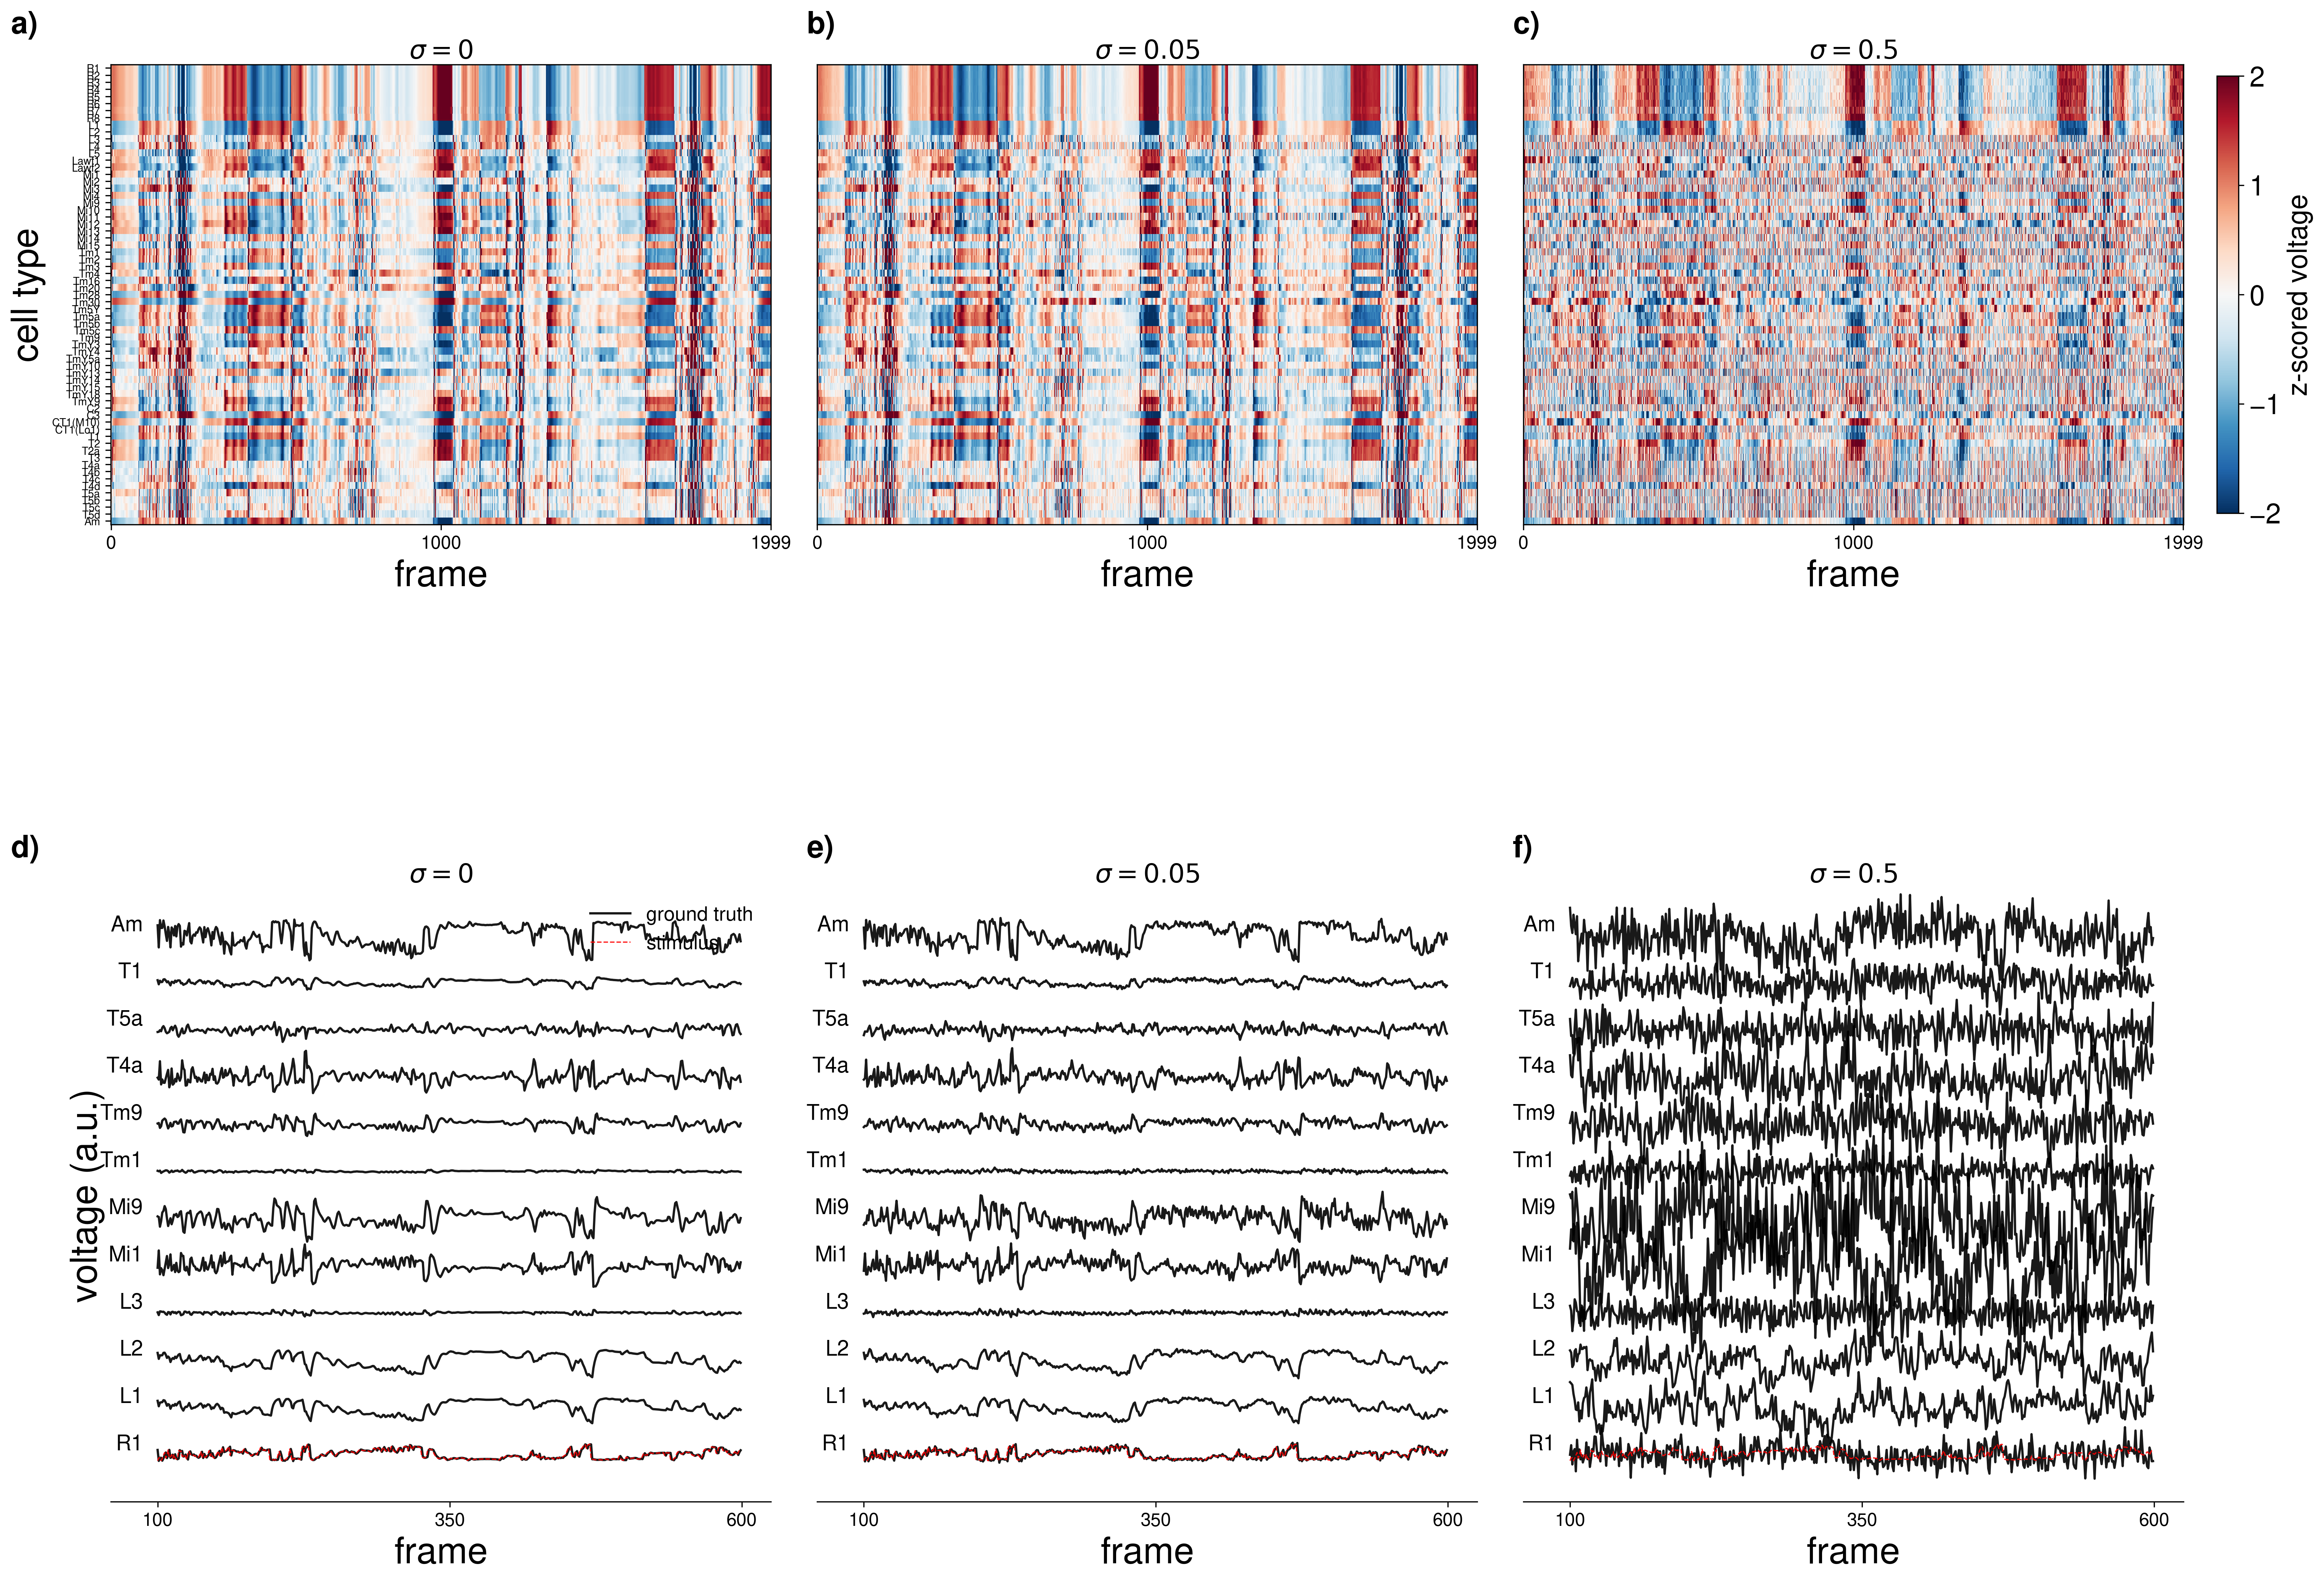
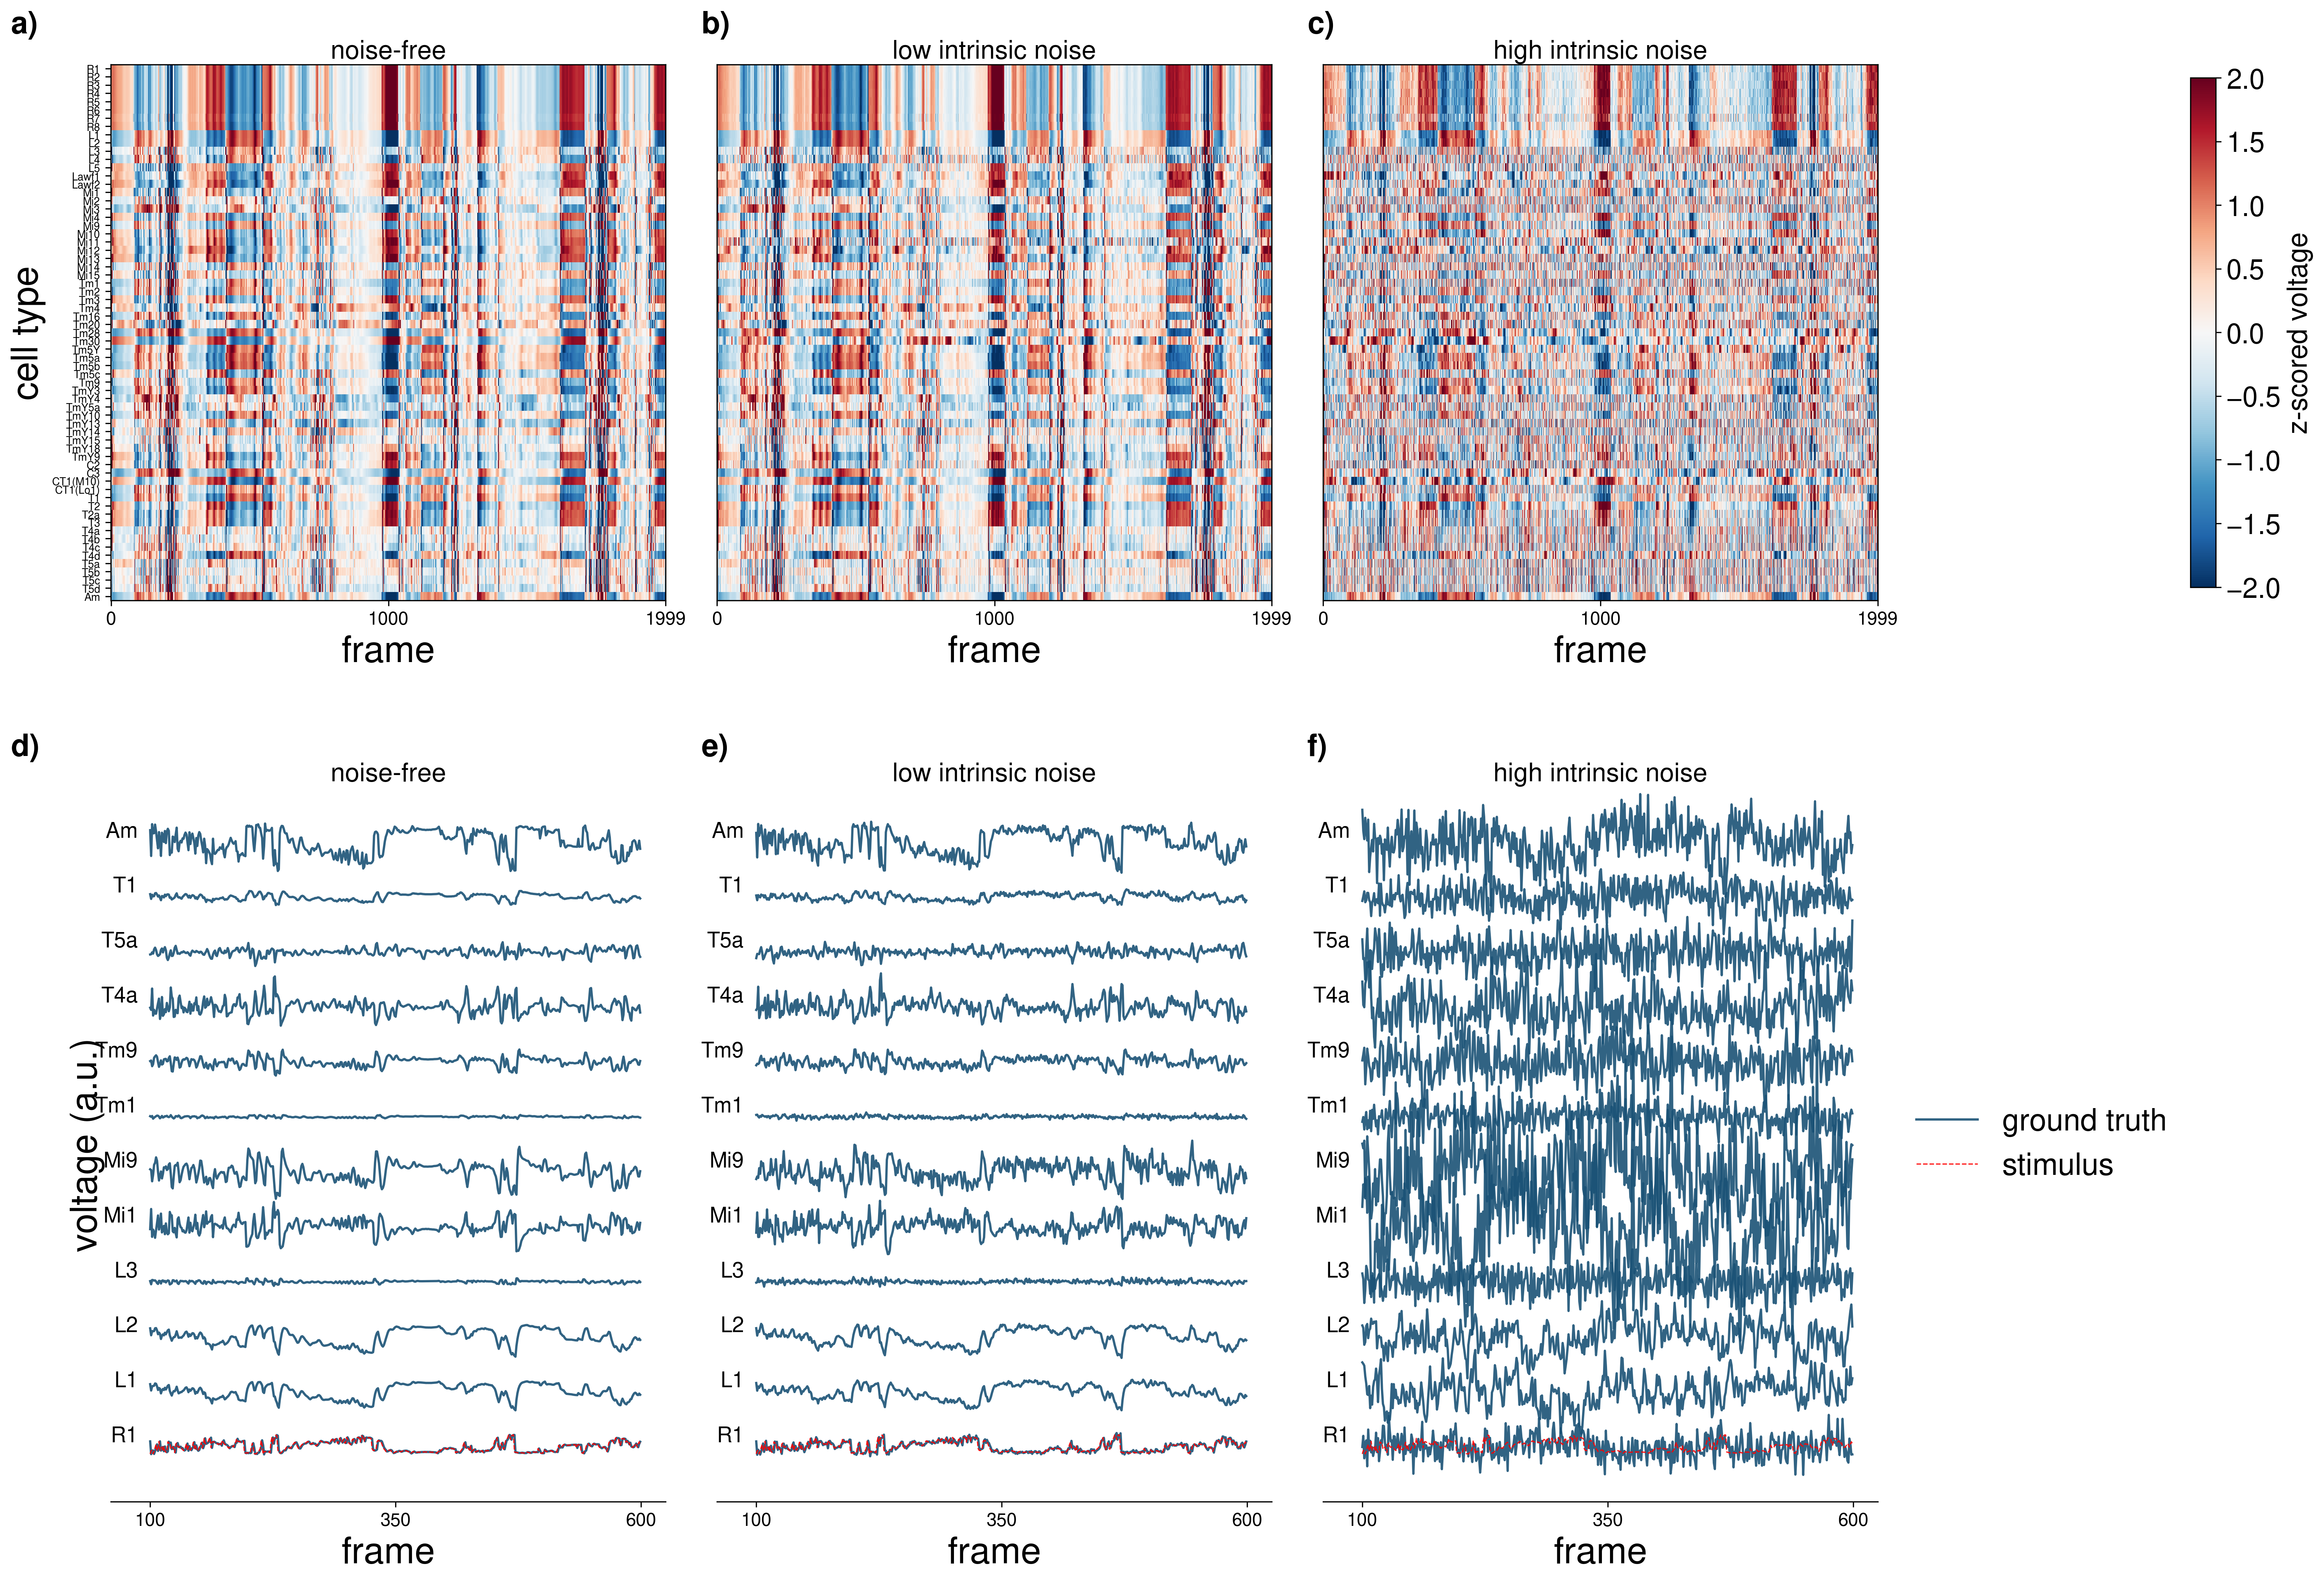
fig_simulations: dark blue traces, legend right of panel f, noise labels, hspace
- COLOR_GT back to dark blue '#1a5276'
- Legend: FS_LEGEND int(40*_S)≈20pt, moved to right of panel f (col 2)
  via bbox_to_anchor=(1.02, 0.5) so it never overlaps traces
- hspace 0.35→0.12 (modest gap between rows)
- Panel titles: σ=0/0.05/0.5 → noise-free / low intrinsic noise / high intrinsic noise

diff --git a/figures/fig_simulations.py b/figures/fig_simulations.py
@@ -61,14 +61,14 @@ FS_ANNOT  = int(28 * _S)   # type-name annotations in trace panel
 FS_TITLE  = 17             # panel subtitle  (fixed, INSTRUCTIONS.md)
 PANEL_LBL = 20             # a)–f)           (fixed, never scaled)
 FS_CBAR   = int(36 * _S)   # colorbar label
-FS_LEGEND = int(26 * _S)   # legend
+FS_LEGEND = int(40 * _S)   # legend
 
 # ── data ──────────────────────────────────────────────────────────────────────
 DATA_ROOT = '/groups/saalfeld/home/allierc/GraphData'
 CONFIGS = [
-    ('flyvis_noise_free', DATA_ROOT, r'$\sigma = 0$'),
-    ('flyvis_noise_005',  DATA_ROOT, r'$\sigma = 0.05$'),
-    ('flyvis_noise_05',   DATA_ROOT, r'$\sigma = 0.5$'),
+    ('flyvis_noise_free', DATA_ROOT, 'noise-free'),
+    ('flyvis_noise_005',  DATA_ROOT, 'low intrinsic noise'),
+    ('flyvis_noise_05',   DATA_ROOT, 'high intrinsic noise'),
 ]
 N_HEATMAP_FRAMES = 2000    # frames loaded for the heatmap (zarr subsample)
 
@@ -84,7 +84,7 @@ CMAP  = 'RdBu_r'
 VLIM  = 2.0          # ±2 σ clipping for z-scored heatmap
 
 # ── trace colors — match graph_tester.py ─────────────────────────────────────
-COLOR_GT   = 'black'     # voltage trace
+COLOR_GT   = '#1a5276'   # dark blue — voltage trace
 COLOR_STIM = 'red'       # red    — stimulus
 LW_GT      = 1.5
 LW_STIM    = 0.8
@@ -191,7 +191,7 @@ fig, axes = plt.subplots(
     2, 3, figsize=(21, 14), dpi=300,
     constrained_layout=True,
     gridspec_kw={'height_ratios': [3, 4],       # taller trace row
-                 'hspace': 0.35},               # blank gap between rows
+                 'hspace': 0.12},               # modest gap between rows
 )
 
 n_sorted  = len(sorted_names_ref)
@@ -268,9 +268,9 @@ for col, (hz, (v_win, s_win, type_ids), (_, _, sigma_lbl)) in enumerate(
     if col == 0:
         ax_t.set_ylabel('voltage (a.u.)', fontsize=FS_LABEL)
 
-    # legend on panel d) (col 0) only
-    if col == 0:
-        ax_t.legend(loc='upper right', bbox_to_anchor=(1.0, 1.0),
+    # legend to the right of panel f) (last trace panel)
+    if col == 2:
+        ax_t.legend(loc='center left', bbox_to_anchor=(1.02, 0.5),
                     bbox_transform=ax_t.transAxes,
                     fontsize=FS_LEGEND, frameon=False)
 